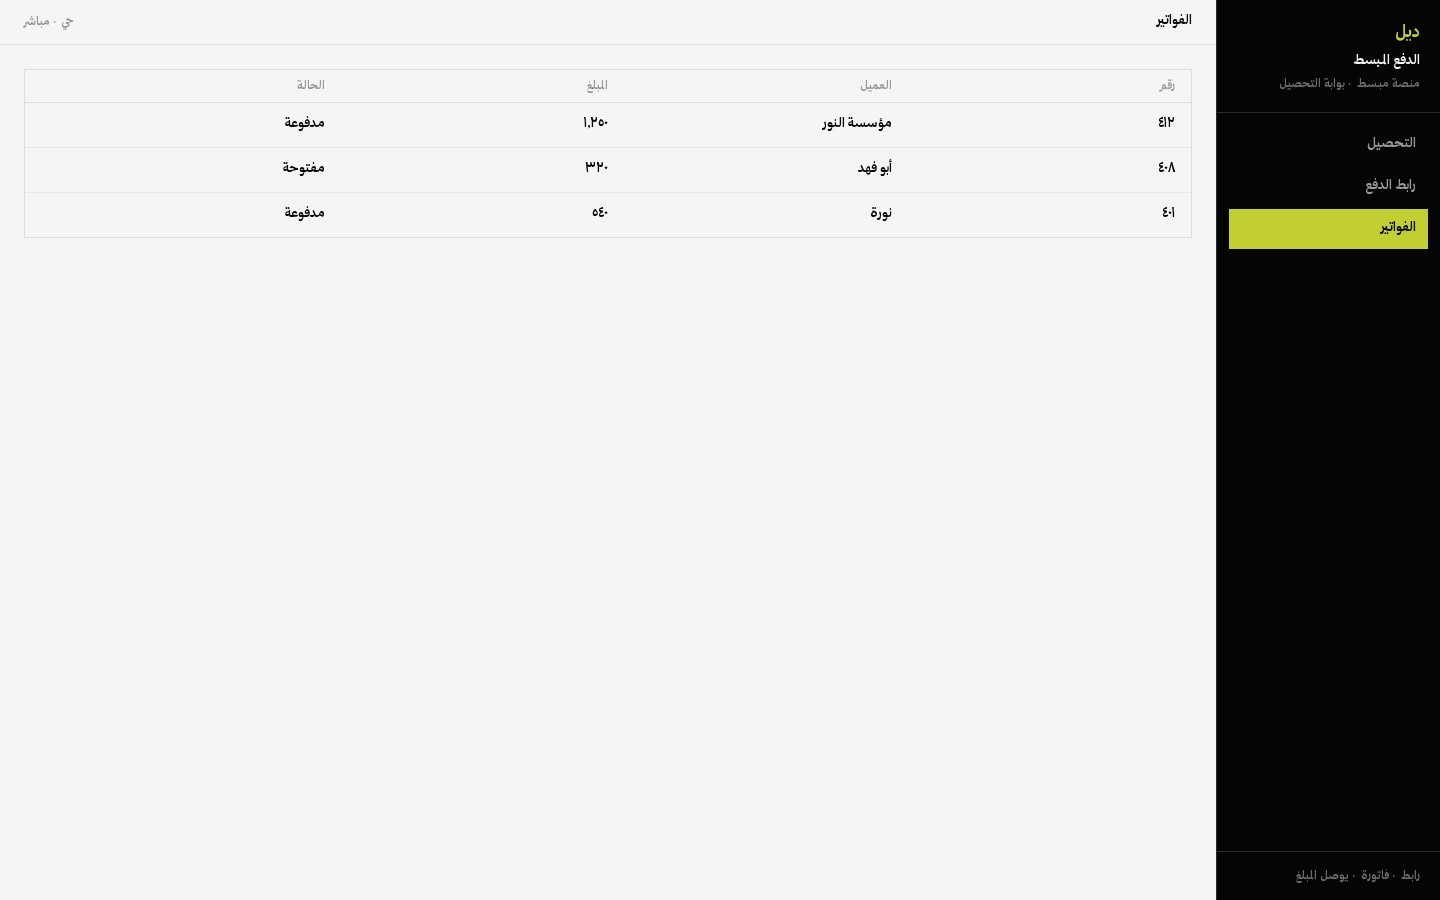
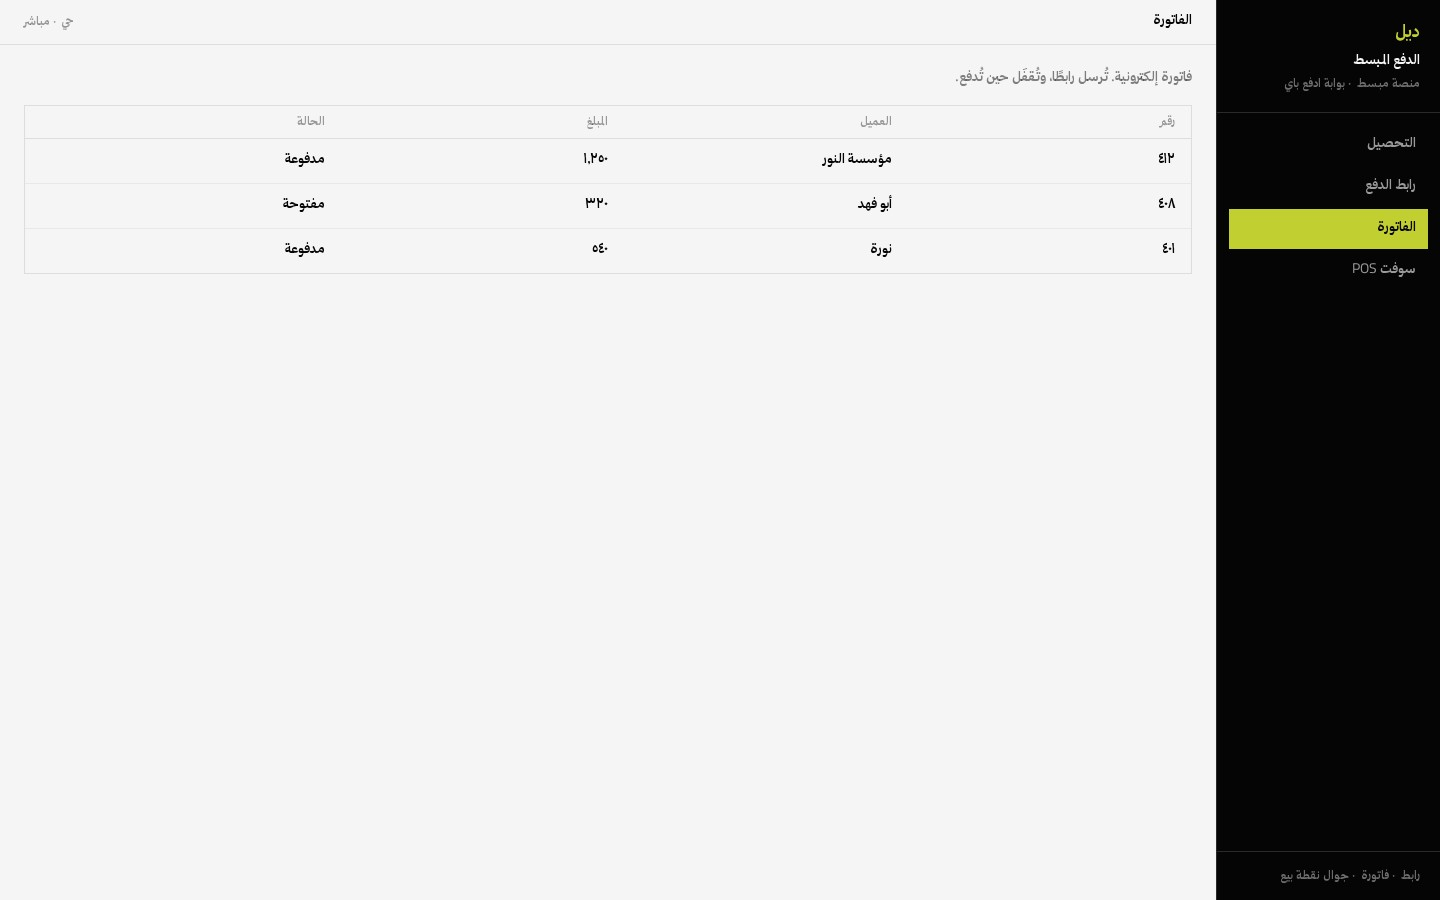
Wire Mubasat pay to EdfaPay: link, e-invoice, Soft-POS
The simplified checkout now matches the real white-label portal —
Mada, Apple Pay, settlement, and the phone as a terminal.

diff --git a/src/components/pay-desk.tsx b/src/components/pay-desk.tsx
@@ -3,15 +3,16 @@ import { DeskFrame } from "@/components/desk-frame";
 const items = [
   { id: "home", label: "التحصيل" },
   { id: "pay", label: "رابط الدفع" },
-  { id: "bills", label: "الفواتير" },
+  { id: "bills", label: "الفاتورة" },
+  { id: "pos", label: "سوفت POS" },
 ] as const;
 
 export type PayView = (typeof items)[number]["id"];
 
 export function PayDesk({ view }: { view: PayView }) {
-  const screens = { home: <Home />, pay: <Pay />, bills: <Bills /> };
+  const screens = { home: <Home />, pay: <Pay />, bills: <Bills />, pos: <Pos /> };
   return (
-    <DeskFrame brand="الدفع المبسط" office="منصة مبسط · بوابة التحصيل" crumb="رابط · فاتورة · يوصل المبلغ" view={view} items={items}>
+    <DeskFrame brand="الدفع المبسط" office="منصة مبسط · بوابة ادفع باي" crumb="رابط · فاتورة · جوال نقطة بيع" view={view} items={items}>
       {screens[view]}
     </DeskFrame>
   );
@@ -22,16 +23,33 @@ function Home() {
     ["١٨٬٤٢٠", "حُصِّل اليوم"],
     ["١٢", "رابط مفتوح"],
     ["٣", "بانتظار الدفع"],
-    ["٠", "معلّق"],
+    ["تسوية", "خلال يوم"],
+  ];
+  const rows = [
+    ["٤١٢", "مؤسسة النور", "مدى", "١٬٢٥٠", "ناجحة"],
+    ["٤١١", "أبو فهد", "آبل باي", "٣٢٠", "ناجحة"],
+    ["٤١٠", "نورة", "بطاقة", "٥٤٠", "معلقة"],
   ];
   return (
-    <div className="grid grid-cols-4 gap-3">
-      {kpis.map(([n, l]) => (
-        <div key={l} className="border border-ink/10 p-4">
-          <p className="font-display text-3xl">{n}</p>
-          <p className="mt-1 font-display text-sm text-ink/50">{l}</p>
-        </div>
-      ))}
+    <div>
+      <div className="grid grid-cols-4 gap-3">
+        {kpis.map(([n, l]) => (
+          <div key={l} className="border border-ink/10 p-4">
+            <p className="font-display text-3xl">{n}</p>
+            <p className="mt-1 font-display text-sm text-ink/50">{l}</p>
+          </div>
+        ))}
+      </div>
+      <p className="mt-8 font-display text-sm text-ink/40">آخر العمليات</p>
+      <div className="mt-3 border border-ink/10">
+        {rows.map((r) => (
+          <div key={r[0]} className="grid grid-cols-5 border-b border-ink/5 px-4 py-3 font-display text-sm last:border-0">
+            {r.map((c) => (
+              <span key={c}>{c}</span>
+            ))}
+          </div>
+        ))}
+      </div>
     </div>
   );
 }
@@ -39,7 +57,7 @@ function Home() {
 function Pay() {
   return (
     <div className="mx-auto max-w-sm border border-ink/10 p-6">
-      <p className="font-display text-xs text-ink/40">منصة مبسط</p>
+      <p className="font-display text-xs text-ink/40">منصة مبسط · ادفع باي</p>
       <p className="mt-2 font-display text-2xl">دفع مستحق</p>
       <p className="mt-1 text-sm text-ink/50">فاتورة ٤١٢ — مؤسسة النور</p>
       <p className="mt-6 font-display text-4xl">١٬٢٥٠ ر.س</p>
@@ -47,6 +65,7 @@ function Pay() {
         <p className="bg-lime px-4 py-3 text-center text-ink">ادفع الآن</p>
         <p className="border border-ink/10 px-4 py-3 text-center">مدى</p>
         <p className="border border-ink/10 px-4 py-3 text-center">آبل باي</p>
+        <p className="border border-ink/10 px-4 py-3 text-center">بطاقة</p>
       </div>
     </div>
   );
@@ -59,20 +78,52 @@ function Bills() {
     ["٤٠١", "نورة", "٥٤٠", "مدفوعة"],
   ];
   return (
-    <div className="border border-ink/10">
-      <div className="grid grid-cols-4 border-b border-ink/10 px-4 py-2 font-display text-xs text-ink/40">
-        <span>رقم</span>
-        <span>العميل</span>
-        <span>المبلغ</span>
-        <span>الحالة</span>
+    <div>
+      <p className="mb-4 font-display text-sm text-ink/50">فاتورة إلكترونية. تُرسل رابطًا، وتُقفَل حين تُدفع.</p>
+      <div className="border border-ink/10">
+        <div className="grid grid-cols-4 border-b border-ink/10 px-4 py-2 font-display text-xs text-ink/40">
+          <span>رقم</span>
+          <span>العميل</span>
+          <span>المبلغ</span>
+          <span>الحالة</span>
+        </div>
+        {rows.map((r) => (
+          <div key={r[0]} className="grid grid-cols-4 border-b border-ink/5 px-4 py-3 font-display text-sm last:border-0">
+            {r.map((c) => (
+              <span key={c}>{c}</span>
+            ))}
+          </div>
+        ))}
       </div>
-      {rows.map((r) => (
-        <div key={r[0]} className="grid grid-cols-4 border-b border-ink/5 px-4 py-3 font-display text-sm last:border-0">
-          {r.map((c) => (
-            <span key={c}>{c}</span>
+    </div>
+  );
+}
+
+function Pos() {
+  return (
+    <div className="grid grid-cols-[16rem_1fr] gap-6">
+      <div className="border border-ink/10 p-6 text-center">
+        <p className="font-display text-xs text-ink/40">الجوال نقطة بيع</p>
+        <p className="mt-8 font-display text-5xl text-lime">NFC</p>
+        <p className="mt-6 font-display text-lg">قرّب البطاقة</p>
+        <p className="mt-2 text-sm text-ink/50">بدون جهاز إضافي</p>
+      </div>
+      <div>
+        <p className="font-display text-sm text-ink/50">آخر تمريرات اليوم</p>
+        <div className="mt-3 border border-ink/10">
+          {[
+            ["١٢:١٤", "مدى", "٨٥ ر.س"],
+            ["١١:٤٠", "آبل باي", "٢١٠ ر.س"],
+            ["١٠:٠٢", "بطاقة", "١٬٢٥٠ ر.س"],
+          ].map((r) => (
+            <div key={r[0]} className="grid grid-cols-3 border-b border-ink/5 px-4 py-3 font-display text-sm last:border-0">
+              {r.map((c) => (
+                <span key={c}>{c}</span>
+              ))}
+            </div>
           ))}
         </div>
-      ))}
+      </div>
     </div>
   );
 }

diff --git a/src/lib/content.ts b/src/lib/content.ts
@@ -40,7 +40,7 @@ export const services = [
     slug: "pay",
     n: "04",
     title: "الدفع المبسط",
-    body: "من منصة مبسط: رابط دفع، فاتورة، وتحصيل. فتحة مالية جاهزة — بلا تعقيد بوابة.",
+    body: "من منصة مبسط وعلى بوابة ادفع باي: رابط دفع، فاتورة إلكترونية، والجوال نقطة بيع. مرخّصة، والتسوية سريعة.",
   },
   {
     slug: "brand",
@@ -301,18 +301,24 @@ export const payAtlas = [
     image: "/images/pay-home.jpg",
     n: "01",
     title: "التحصيل",
-    body: "ما دخل اليوم، الروابط المفتوحة، وما ينتظر الدفع. شاشة واحدة للمالية.",
+    body: "ما دخل اليوم، وآخر العمليات: مدى، آبل باي، بطاقة. التسوية خلال يوم.",
   },
   {
     image: "/images/pay-pay.jpg",
     n: "02",
-    title: "رابط الدفع المبسط",
-    body: "من منصة مبسط: المبلغ، الفاتورة، وادفع الآن. مدى أو آبل باي — بلا تعقيد بوابة.",
+    title: "رابط الدفع",
+    body: "ترسل الرابط. العميل يدفع من جواله. المبلغ يُقفَل في فاتورته.",
   },
   {
     image: "/images/pay-bills.jpg",
     n: "03",
-    title: "الفواتير",
-    body: "رقم، عميل، مبلغ، حالة. المفتوحة والمدفوعة في مكانها.",
+    title: "الفاتورة الإلكترونية",
+    body: "تُنشأ، تُرسل، وتُغلق حين تُدفع. لا متابعة يدوية لحسابٍ معلّق.",
+  },
+  {
+    image: "/images/pay-pos.jpg",
+    n: "04",
+    title: "سوفت POS",
+    body: "الجوال يصير جهاز دفع. قرّب البطاقة — بلا جهاز إضافي.",
   },
 ] as const;

diff --git a/src/components/home-sections.tsx b/src/components/home-sections.tsx
@@ -362,12 +362,12 @@ export function Pay() {
         </Reveal>
       </div>
       <Reveal className="px-8 py-14 text-center md:px-16">
-        <p className="text-kicker text-lime">التحصيل // 03</p>
+        <p className="text-kicker text-lime">التحصيل // 04</p>
         <h2 className="mt-5 font-display text-poster text-snow">
           الدفع المبسط.
         </h2>
         <p className="mx-auto mt-6 max-w-xl text-pretty leading-loose text-mist">
-          من منصة مبسط. رابط، فاتورة، وتحصيل. فتحة مالية جاهزة — بلا تعقيد بوابة.
+          من منصة مبسط، على بوابة ادفع باي: رابط، فاتورة إلكترونية، والجوال نقطة بيع. مرخّصة، والتسوية سريعة.
         </p>
       </Reveal>
       <Atlas items={payAtlas} />

diff --git a/src/routes/desk.pay.$view.tsx b/src/routes/desk.pay.$view.tsx
@@ -1,7 +1,7 @@
 import { createFileRoute, notFound } from "@tanstack/react-router";
 import { PayDesk, type PayView } from "@/components/pay-desk";
 
-const views = ["home", "pay", "bills"] as const;
+const views = ["home", "pay", "bills", "pos"] as const;
 
 export const Route = createFileRoute("/desk/pay/$view")({
   component: DeskPay,
